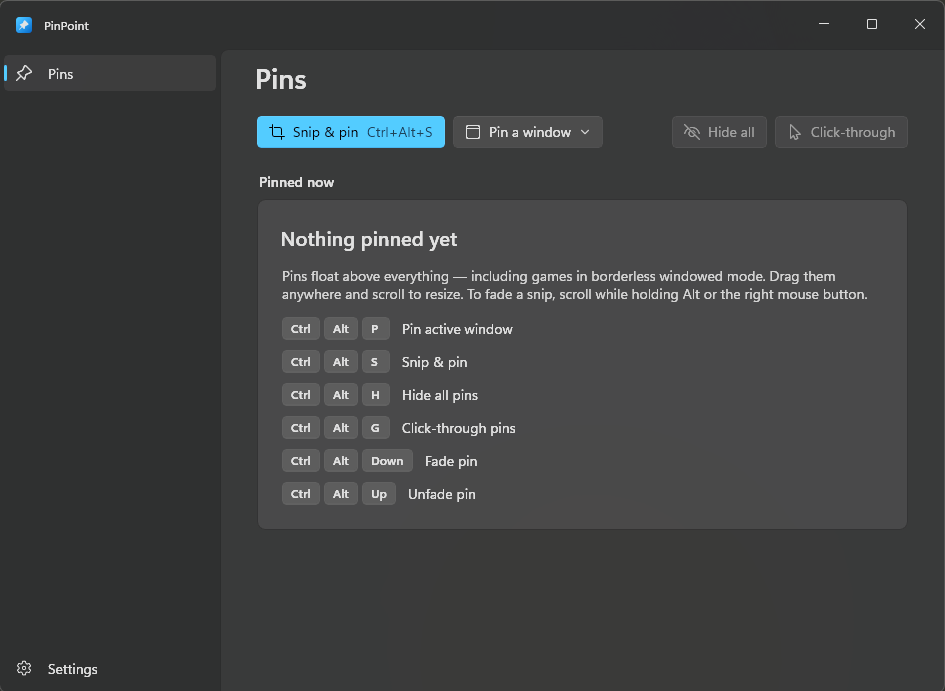
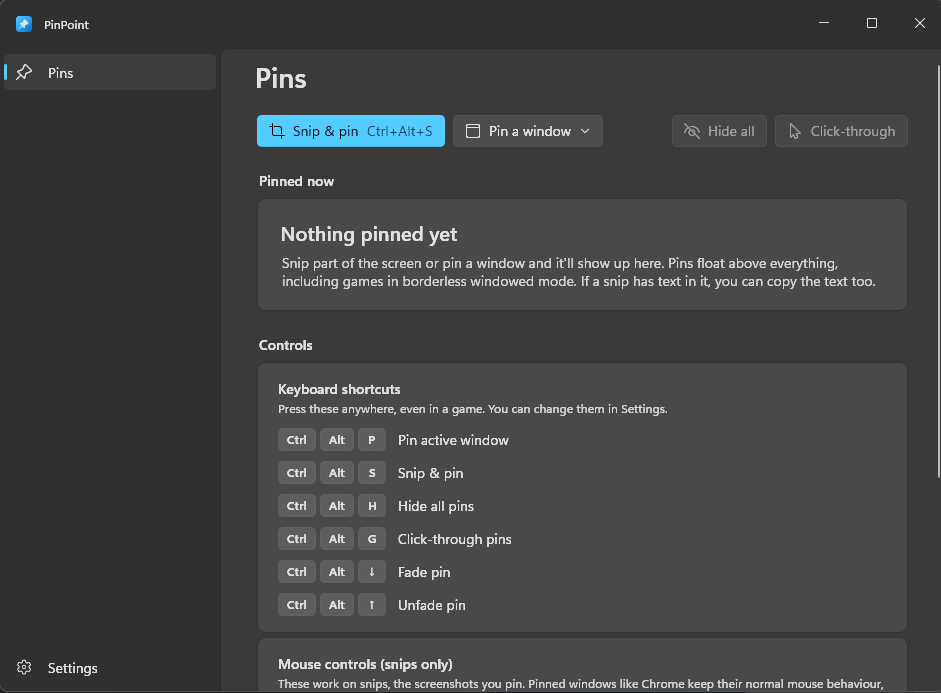
README: update main window screenshot
Shows the current Pins page with the Controls section.

diff --git a/README.md b/README.md
@@ -39,7 +39,7 @@ It sits in the tray and doesn't do anything until you press a shortcut.
 - **Small and quick.** No installer, no account, no internet connection. Just an exe in a folder.
 
 <p align="center">
-  <img src="docs/app-window.png" alt="PinPoint's main window: the Pins page with Snip &amp; pin and Pin a window buttons and the list of shortcuts" width="720">
+  <img src="docs/app-window.png" alt="PinPoint's main window: the Pins page with Snip &amp; pin and Pin a window buttons, and a Controls section listing the keyboard shortcuts and mouse controls" width="720">
 </p>
 
 ## Download
